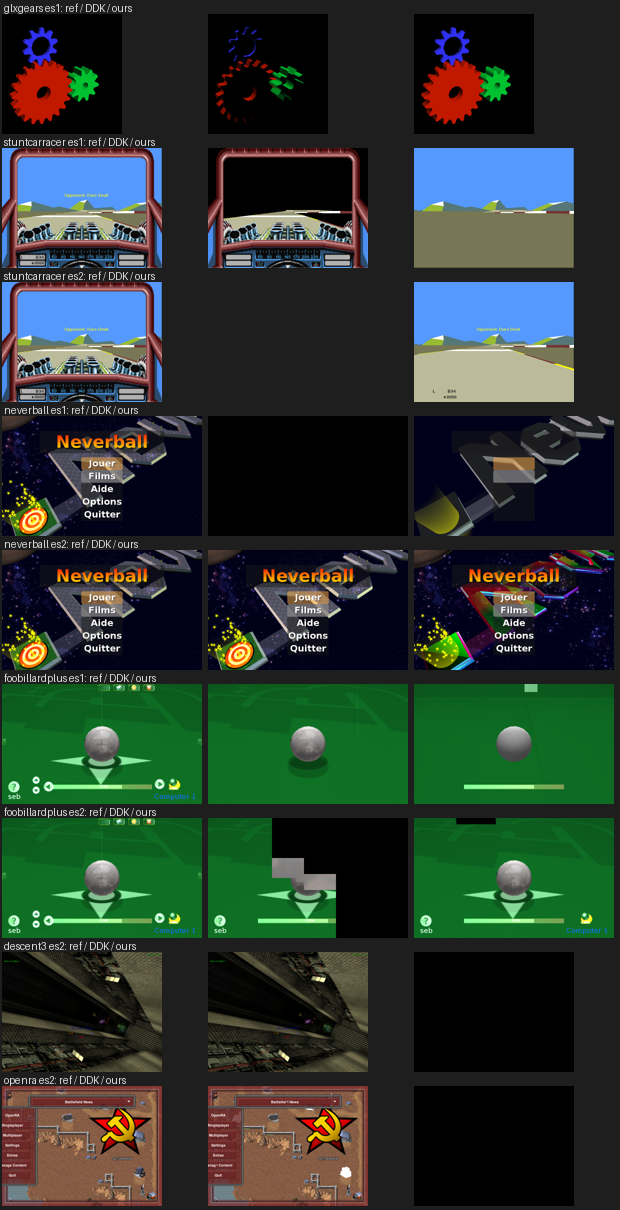
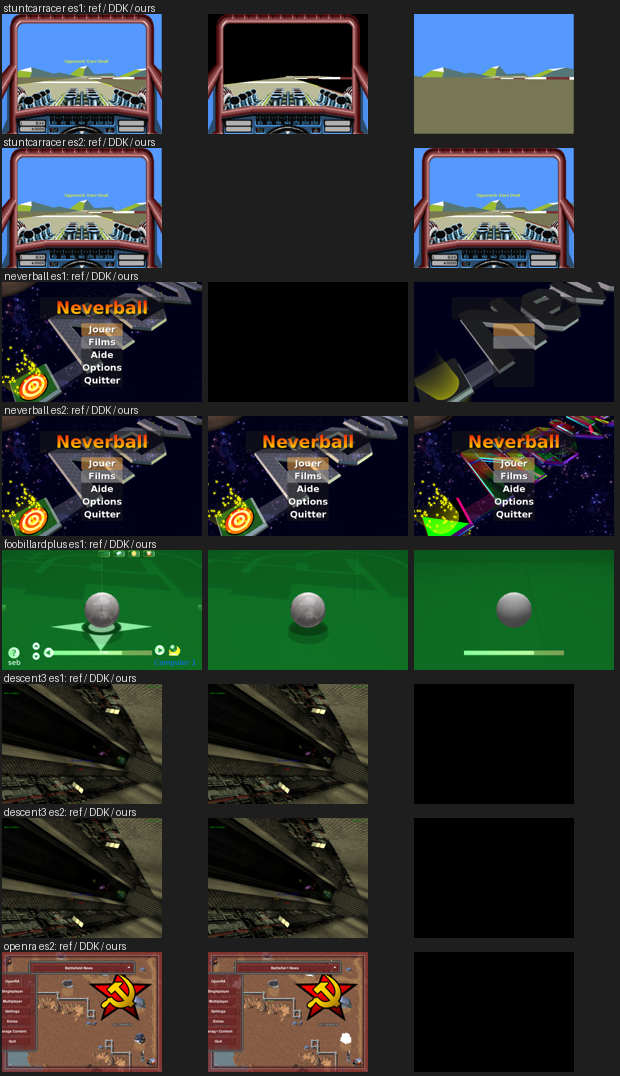
Minecraft A/B rig (mc-ab.sh, gl4es-run-sgx545): the game runs on ours, title panorama drawn, its composite not yet; build log: discard and the suite after it, Minecraft first light

diff --git a/docs/log/entries/2026-10-28-1530-gl4es-ctest.md b/docs/log/entries/2026-10-28-1530-gl4es-ctest.md
@@ -19,7 +19,7 @@ with gl4es' reference the way gl4es' own `test.sh` does (`mesa/README.md`,
 
 ![first run: reference / DDK / ours](../img/2026-10-28-1530-gl4es-ctest-1.png)
 
-![after dependent samples and the PDS middle word: reference / DDK / ours](../img/2026-10-28-1530-gl4es-ctest-2.png)
+![after dependent samples, the PDS middle word and discard: reference / DDK / ours](../img/2026-10-28-1530-gl4es-ctest-2.png)
 
 On glxgears ES2, ours and the DDK differ on 1753 pixels, by at most 1.
 That is F32 against the DDK's F16 iteration of mediump varyings.
@@ -69,9 +69,38 @@ On the way, more traps cost five Bench cycles:
   every frame without kicking, and `tools/state/decode.py` reads the trace.
   `gpuwatch.sh` kills a client at its first recovery.
 
+## Discard, then the suite again (`5bd4fe8`)
+
+Discard is now drawn the DDK's way: two phases, `pcoeff` of a depth plane the
+PDS iterates, `atst8` in place of the feedback `nop`, pass type 4 (2 with a
+blend), and two control words in sa3/sa4 (`0xe000 | depth compare | 8
+without depth writes`, `0xee00`). Four discard cases are byte-identical to
+the DDK (`mesa/tests/sgx545_discardab.sh`). With it, 14 of 14 traces still
+replay with no SGX recovery. stuntcarracer ES2 passes ctest (1 pixel off the
+reference; the DDK crashes on that trace), and neverball's logo appears.
+
+## Minecraft, first light
+
+`mesa/tests/mc-ab.sh` runs the game (the openhc-minecraft runtime, gl4es as
+shipped) on either stack, through `gl4es-run-sgx545` for ours. Two things
+first:
+
+- On this EA3 the DDK cannot start the game as `gl4es-run` does: gl4es'
+  hardware probe re-initialises EGL, and the DDK then crashes in
+  `SGXAddRenderTarget`, the same crash as under glretrace (the EA1 runs the
+  game, so something about this box differs). With `LIBGL_NOTEST=1` both
+  stacks start it, at about 1 FPS on the title screen (gl4es without its
+  probe).
+- Ours draws the title screen's panorama but not the frame built from it
+  (the panorama copied into a texture, blurred, with the logo and buttons
+  over it). That is the next thing to find.
+
+![Minecraft's title screen, LIBGL_NOTEST=1: the DDK (left), ours (right)](../img/2026-10-28-1530-gl4es-ctest-3.png)
+
 ## What is left for ctest
 
-- **Discard**: alpha-tested sprites, the cockpit, the logo, descent3.
+- **Alpha test on ES1** (the ES1 cockpit and logo) and descent3 (black on
+  both GLES versions), not looked at yet.
 - **gl_FragCoord / gl_PointCoord** inputs (openra, pointsprite) and a
   saturated dot product (glsl_lighting). These are compiler gaps and have
   been reported to the compiler session.
